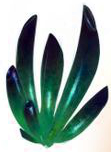
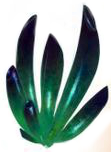
Can't delete floor trixels. Improved plant images slightly. Replaced character images.

diff --git a/Game/src/game/ui/render/levelmaker/PlaceMaker.java b/Game/src/game/ui/render/levelmaker/PlaceMaker.java
@@ -11,7 +11,6 @@ import game.ui.render.util.DepthComparator;
 import game.ui.render.util.Transform;
 import game.ui.window.GameWindow;
 import game.world.dimensions.Point3D;
-import game.world.dimensions.Rectangle3D;
 import game.world.dimensions.Vector3D;
 import game.world.model.AirTank;
 import game.world.model.Chest;
@@ -23,17 +22,12 @@ import game.world.model.Place;
 import game.world.model.Plant;
 import game.world.model.Portal;
 import game.world.model.Room;
-import game.world.model.Table;
 import game.world.model.Tree;
 import game.world.util.Drawable;
 import game.world.util.Floor;
 
 import java.awt.Color;
 import java.awt.Polygon;
-import java.io.BufferedReader;
-import java.io.File;
-import java.io.FileReader;
-import java.io.IOException;
 import java.util.ArrayList;
 import java.util.Collections;
 import java.util.HashSet;
@@ -42,8 +36,6 @@ import java.util.List;
 import java.util.Random;
 import java.util.Set;
 
-import org.omg.CORBA.Environment;
-
 /**
  * @author hardwiwill
  *
@@ -51,8 +43,6 @@ import org.omg.CORBA.Environment;
  * Starts with a flat plane of trixels, made with a floor object.
  * This can be expanded on using any of the tools.
  * View of the trixels can be rotated.
- *
- * TODO: Save the level in a file for use in the game.
  */
 public class PlaceMaker{
 
@@ -62,6 +52,9 @@ public class PlaceMaker{
 	public static final String TREE_MODE = "Tree";
 	public static final String TRIXEL_MODE = "Trixel";
 	public static final String CHEST_MODE = "Chest";
+	/**
+	 * All of the draw modes that the world maker can be in
+	 */
 	public static final String[] MODES = {PLANT_MODE, TREE_MODE, DOOR_MODE, AIR_TANK_MODE, TRIXEL_MODE};
 
 	public static final int MIN_COLOUR_DEVIATION = 0;
@@ -313,7 +306,8 @@ public class PlaceMaker{
 	}
 
 	/**
-	 * deletes a trixel at this x, y location
+	 * Deletes a trixel at this x, y location.
+	 * Can't be a floor trixel.
 	 * @param x
 	 * @param y
 	 */
@@ -330,7 +324,6 @@ public class PlaceMaker{
 			Trixel trixel = face.getParentTrixel();
 			// could be either a floor or created trixel.
 			createdTrixels.remove(trixel);
-			floorTrixels.remove(trixel);
 		}
 		else if (something instanceof DrawablePlaceHolder){
 			DrawablePlaceHolder placeHolder = (DrawablePlaceHolder) something;
@@ -369,6 +362,12 @@ public class PlaceMaker{
 		return null;
 	}
 
+	/**
+	 * Finds an object (either a drawable or a trixel) at the view-space point x,y.
+	 * @param x
+	 * @param y
+	 * @return the object at this point.
+	 */
 	private DepthComparable findSomethingAtPoint(int x, int y){
 		for (DepthComparable object : rotatedObjects){
 			if (object instanceof TrixelFace){
@@ -379,10 +378,10 @@ public class PlaceMaker{
 				}
 			}
 			else if (object instanceof DrawablePlaceHolder){
-				DrawablePlaceHolder temp = (DrawablePlaceHolder) object;
+				DrawablePlaceHolder drawable = (DrawablePlaceHolder) object;
 
-				if (temp.pointIsIn(x, y)){
-					return temp;
+				if (drawable.pointIsIn(x, y)){
+					return drawable;
 				}
 			}
 		}
@@ -413,7 +412,7 @@ public class PlaceMaker{
 	}
 
 	/**
-	 * Makes a place object using the information in
+	 * Makes a place object using the information in the level.
 	 * @return
 	 */
 	public Place toPlace(){
@@ -469,13 +468,6 @@ public class PlaceMaker{
 
 				vines.add(new Vine(vinePosition, height));
 
-				/*System.out.println("center:\t" + center);
-				System.out.println("top line gradient:\t"+topLineGradient);
-				System.out.println("dist:\t"+dist);
-				System.out.println("trans from center:\t"+translateFromCenter);
-				System.out.println("randomTop:\t"+randomTopPoint);
-				System.out.println("height:\t"+height);
-				System.out.println("vinePosition:\t"+vinePosition);*/
 			}
 		}
 		return vines;

diff --git a/Game/src/game/ui/render/levelmaker/WorldMaker.java b/Game/src/game/ui/render/levelmaker/WorldMaker.java
@@ -46,10 +46,11 @@ import javax.swing.event.ChangeListener;
 /**
  * @author hardwiwill
  *
- * The view/controller element of the Level maker.
+ * The view/controller element of the World maker.
  * Deals with user-input like clicking, dragging, interacting with buttons and other GUI elements.
  * Triggers methods in the levelMaker with this input.
  * Draws the Level when it's updated.
+ * Allows user to create new places.
  *
  */
 public class WorldMaker extends JPanel{
